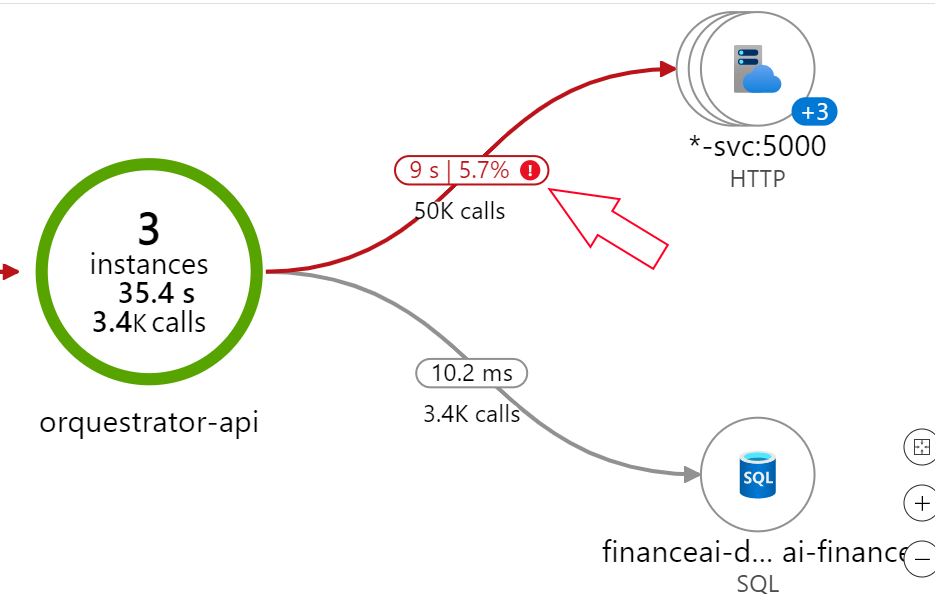
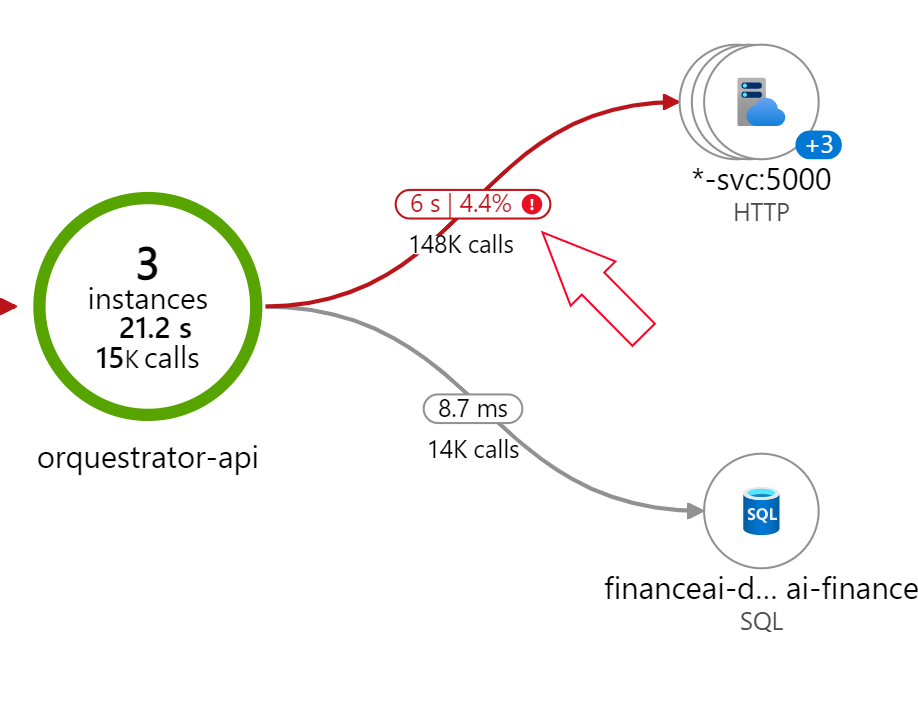
improved png

diff --git a/_posts/2021-09-16-RuntimeError already borrowed.md b/_posts/2021-09-16-RuntimeError already borrowed.md
@@ -26,6 +26,6 @@ And this is now, with the [transformers](https://pypi.org/project/transformers/)
 
 ![x](/img/posts/runtimeerror-already-borrowed/solved.png)
 
-Near **~2.5x faster and 12x less error rate** :)
+Near **~3x faster and 15x less error rate** :)
 
 Nice!
